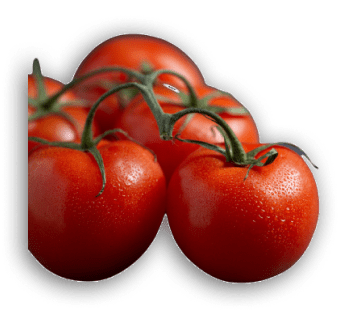
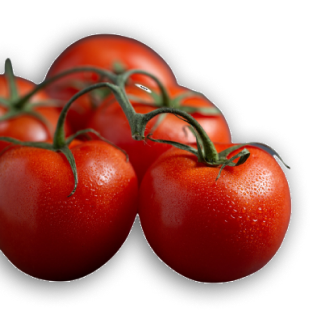
discount, reviews, footer

diff --git a/src/clientSections/footer.jsx b/src/clientSections/footer.jsx
@@ -1,6 +1,50 @@
+import { NAV_ELEMENTS } from "../components/header";
+
 const Footer = () => {
   return (
-    <h2>Footer section</h2>
-  )
-}
+    <div className="bg-bg-black min-h-[453px] pt-8 pb-5 text-txt-main-white relative">
+      <div className="max-w-[1440px] mx-auto px-[120px]">
+        <img src="/src/images/tomatoes.png" alt="tomatoes" className="absolute left-0 top-[-182px]" />
+        <ul className="flex gap-x-[50px]">
+          <li>
+            <ul className="flex flex-col gap-y-2 w-[188px] mt-[143px]">
+              {NAV_ELEMENTS.map((el) => (
+                <li
+                  key={el.name}
+                  className="cursor-pointer text-xl hover:text-txt-main-yellow focus:text-txt-main-yellow"
+                >
+                  {el.name}
+                </li>
+              ))}
+            </ul>
+          </li>
+          <li>
+            <img src="/src/images/logo.png" alt="Logo" className="w-[199px] h-[199px]" />
+            <ul>
+              <li></li>
+              <li></li>
+              <li></li>
+            </ul>
+          </li>
+          <li className="w-[560px]">
+            <p className="text-5xl font-bold mb-2 leading-[1.4]">
+              М&apos;ясорОбка - це завжди <span className="text-txt-main-yellow">свіже</span> та{" "}
+              <span className="text-txt-main-yellow">корисне м&apos;ясо</span>
+            </p>
+            <ul className="flex gap-x-8">
+              <li className="text-2xl text-txt-main-yellow leading-[1.6] mb-2">
+                Телефон
+                <p className="text-base text-txt-main-white opacity-[0.6] mb-2">(406) 555-0120</p>
+                <p className="text-base text-txt-main-white opacity-[0.6] mb-2">(480) 555-0103</p>
+                <p className="text-base text-txt-main-white opacity-[0.6]">(239) 555-0108</p>
+              </li>
+              <li className="text-2xl text-txt-main-yellow leading-[1.6] mb-2">Адреса</li>
+              <li className="text-2xl text-txt-main-yellow leading-[1.6] mb-2">Імейл</li>
+            </ul>
+          </li>
+        </ul>
+      </div>
+    </div>
+  );
+};
 export default Footer;

diff --git a/src/components/favouriteProductSwiper.jsx b/src/components/favouriteProductSwiper.jsx
@@ -12,7 +12,7 @@ const FavouriteProductSwiper = observer(() => {
   const favouriteProducts = productStore.products.filter((product) => product.favourite === true);
 
   return (
-    <div className="w-full py-4 px-[120px] relative favourite">
+    <div className="w-full py-4 relative favourite">
       <>
         <Swiper
           modules={[Navigation, Pagination]}
@@ -54,11 +54,11 @@ const FavouriteProductSwiper = observer(() => {
         </Swiper>
       </>
       <div className="w-full mt-8 relative mx-auto flex justify-center items-center">
-        <button className="fav-button-next w-[52px] h-[52px] p-4 bg-bg-white rounded-full hover:shadow-swiper focus:shadow-swiper z-[1]">
+        <button className="fav-button-prev w-[52px] h-[52px] p-4 bg-bg-white rounded-full hover:shadow-swiper focus:shadow-swiper z-[1]">
           <icons.Left />
         </button>
         <div className="fav-pagination flex justify-center gap-x-4 w-[200px] h-full "></div>
-        <button className="fav-button-prev w-[52px] h-[52px] p-4  bg-bg-white rounded-full hover:shadow-swiper focus:shadow-swiper z-[1]">
+        <button className="fav-button-next w-[52px] h-[52px] p-4  bg-bg-white rounded-full hover:shadow-swiper focus:shadow-swiper z-[1]">
           <icons.Right />
         </button>
       </div>

diff --git a/src/components/allProductSwiper.jsx b/src/components/allProductSwiper.jsx
@@ -17,7 +17,7 @@ const AllProductSwiper = observer(() => {
       : productStore.products.filter((product) => product.category === filterStore.category);
 
   return (
-    <div className="h-[780px] w-full py-4 px-[120px] relative product">
+    <div className="h-[780px] w-full py-4 relative product">
       <>
         <Swiper
           modules={[Navigation, Grid, Pagination]}
@@ -80,11 +80,11 @@ const AllProductSwiper = observer(() => {
       </>
 
       <div className="w-full mt-8 relative mx-auto flex justify-center items-center">
-        <button className="prod-button-next w-[52px] h-[52px] p-4  bg-bg-white rounded-full hover:shadow-swiper focus:shadow-swiper z-[32]">
+        <button className="prod-button-prev w-[52px] h-[52px] p-4  bg-bg-white rounded-full hover:shadow-swiper focus:shadow-swiper z-[32]">
           <icons.Left />
         </button>
         <div className="pagination flex justify-center gap-x-4 w-[200px] h-full "></div>
-        <button className="prod-button-prev w-[52px] h-[52px] p-4 bg-bg-white rounded-full hover:shadow-swiper focus:shadow-swiper z-[32]">
+        <button className="prod-button-next w-[52px] h-[52px] p-4 bg-bg-white rounded-full hover:shadow-swiper focus:shadow-swiper z-[32]">
           <icons.Right />
         </button>
       </div>

diff --git a/src/components/header.jsx b/src/components/header.jsx
@@ -1,16 +1,17 @@
+/* eslint-disable react-refresh/only-export-components */
 // import PropTypes from "prop-types";
 import ButtonMain from "./UIKit/button";
 import logo from "../images/logo.png";
 
-const NAV_ELEMENTS = [
+export const NAV_ELEMENTS = [
   { name: "Про нас", linkId: "about" },
   { name: "Магазин", linkId: "shop" },
   { name: "Контакти", linkId: "contacts" },
   // { name: "Оптовим покупцям", linkId: "wholesale" },
-]
+];
 const Header = () => {
   return (
-    <div className="max-w-[1280px] h-20 mx-auto flex justify-between text-txt-main-white pt-2">
+    <div className="max-w-[1440px] h-20 mx-auto flex justify-between text-txt-main-white pt-2">
       <img src={logo} alt="Logo" className="w-[76px] h-[76px] ml-20" />
       <div className="flex py-5 items-center">
         <nav className="mr-11">
@@ -25,9 +26,7 @@ const Header = () => {
             ))}
           </ul>
         </nav>
-        <ButtonMain style="redCustom" >
-          Замовити смаколики
-        </ButtonMain>
+        <ButtonMain style="redCustom">Замовити смаколики</ButtonMain>
       </div>
     </div>
   );

diff --git a/src/clientSections/review.jsx b/src/clientSections/review.jsx
@@ -22,12 +22,20 @@ const REVIEWS = [
 
 const Review = () => {
   return (
-    <div className="bg-bg-white min-h-[1440px] pt-10 pb-14">
-      <div className="max-w-[1280px] mx-auto ">
+    <div className="bg-bg-white min-h-[530px] pt-10 pb-14 relative">
+      <img src="/src/images/hot-pepper_1.png" alt="hot pepper" className="absolute top-[-40px] right-0" />
+      <div className="max-w-[1440px] mx-auto px-[120px] relative">
         <h2 className="text-4xl font-bold text-txt-main-black mb-20">Відгуки про нашу працю</h2>
-        {REVIEWS.map((review) => (
-          <ReviewCard review={review} key={review.name} />
-        ))}
+        <div className="grid grid-cols-1 md:grid-cols-2 lg:grid-cols-3 gap-x-12 justify-between ">
+          {REVIEWS.map((review) => (
+            <ReviewCard review={review} key={review.name} />
+          ))}
+        </div>
+        <img
+          src="/src/images/rosemary-big.png"
+          alt="rosemary"
+          className="h-[137px] w-[800px] absolute bottom-[-100px] left-[295px] z-[2]"
+        />
       </div>
     </div>
   );

diff --git a/src/clientSections/products.jsx b/src/clientSections/products.jsx
@@ -16,14 +16,14 @@ const Products = observer(() => {
     <>
       <div className="pt-8 bg-bg-black">
         {auth.isLoading && <p>is loading ...</p>}
-        <div className="max-w-[1280px] mx-auto">
+        <div className="max-w-[1440px] mx-auto px-[120px]">
           <h2 className="text-4xl font-bold text-txt-main-white">Категорії товарів</h2>
           <Categories products={productStore.products} />
           <h2 className="text-4xl font-bold text-txt-main-white">Всі категорії</h2>
         </div>
       </div>
       <div className="bg-bg-black bg-products bg-no-repeat bg-cover bg-top relative">
-        <div className="max-w-[1280px] mx-auto min-h-[858px]">
+        <div className="max-w-[1440px] mx-auto min-h-[858px] px-[120px]">
           <img src="/src/images/meat.png" alt="meat" className="absolute top-14 left-0" />
           <img src="/src/images/meat-small.png" alt="meat" className="absolute top-40 right-0" />
           <img src="/src/images/meat_1.png" alt="meat" className="absolute top-[637px] right-0 z-[5]" />

diff --git a/src/clientSections/discount.jsx b/src/clientSections/discount.jsx
@@ -1,6 +1,21 @@
+import ButtonMain from "../components/UIKit/button";
+
 const Discount = () => {
   return (
-    <h2>Discount section</h2>
-  )
-}
+    <div className="bg-bg-white min-h-[458px] pt-[68px] pb-[100px] relative">
+      <div className="max-w-[1440px] mx-auto px-[120px]">
+        <div className="w-[669px] mx-auto text-center text-txt-main-black font-medium">
+          <h3 className="text-5xl mb-4">
+            Отримай знижку <span className="text-txt-marine">5% </span>на третє замовлення
+          </h3>
+          <p className="text-xl mb-16">
+            Наш консультант підкаже яке м&apos;ясо підійде вам як найкраще. <br />
+            Не зволікай - заявку залишай!
+          </p>
+          <ButtonMain style="redLarge">Замовити смаколики</ButtonMain>
+        </div>
+      </div>
+    </div>
+  );
+};
 export default Discount;

diff --git a/src/components/reviewCard.jsx b/src/components/reviewCard.jsx
@@ -2,13 +2,17 @@ import Proptypes from "prop-types";
 
 const ReviewCard = ({ review }) => {
   return (
-    <div>
-      <div className="w-[120px] h-[120px] rounded-full">
-        <img src={review.photo} alt={`відгук ${review.name}`} className="w-[120px] h-[120px] bg-contain" />
+    <div className="w-[380px] h-[464px] px-4">
+      <div className="w-full">
+        <img
+          src={review.photo}
+          alt={`відгук ${review.name}`}
+          className="w-[120px] h-[120px] rounded-full mx-auto mb-3"
+        />
       </div>
 
-      <p>{review.name}</p>
-      <p>{review.text}</p>
+      <p className="text-center text-xl font-semibold mb-3">{review.name}</p>
+      <p className="text-center text-xl font-review">{review.text}</p>
     </div>
   );
 };

diff --git a/src/clientSections/favourite.jsx b/src/clientSections/favourite.jsx
@@ -7,7 +7,7 @@ const Favourite = () => {
     <div className="bg-bg-black relative pb-[58px] min-h-[600px]">
       <img src={hotPepper} alt="hot pepper" className="absolute top-[-64px]" />
       <img src={rosemary} alt="rosemary" className="absolute right-4 bottom-0" />
-      <div className="max-w-[1280px] mx-auto">
+      <div className="max-w-[1440px] mx-auto px-[120px]">
         <h2 className="text-4xl font-bold text-txt-main-white pt-12 pb-4 z-10 relative">
           Найулюбленіші смаколики покупців
         </h2>

diff --git a/tailwind.config.js b/tailwind.config.js
@@ -9,6 +9,7 @@ export default {
         "txt-main-black": "#282828",
         "txt-main-yellow": "#FBDD3D",
         "txt-grey": "#A3A3A3",
+        "txt-marine": "#227D94",
         "bg-main": "#424242",
         "bg-grey": "#5E5E5E",
         "bg-light-grey": "#a3a3a3",
@@ -22,7 +23,7 @@ export default {
       },
       fontFamily: {
         basic: "Roboto, sans-serif",
-        review: "Nunito', sans-serif",
+        review: "Nunito, sans-serif",
       },
       backgroundImage: {
         hero: "url('images/hero.jpg')",

diff --git a/src/clientSections/headerHero.jsx b/src/clientSections/headerHero.jsx
@@ -5,7 +5,7 @@ import { SocialLinksBlock } from "../components/socBlock";
 const HeaderHero = () => {
   return (
     <div className="bg-hero bg-no-repeat bg-cover min-h-[764px] text-txt-main-white relative">
-      <div className="max-w-[1280px] mx-auto">
+      <div className="max-w-[1440px] mx-auto px-[120px]">
         <Header />
         <p className="mt-[122px] ml-[192px] w-[822px] text-[56px] font-bold leading-tight ">
           М&apos;ясорОбка - це завжди{" "}
